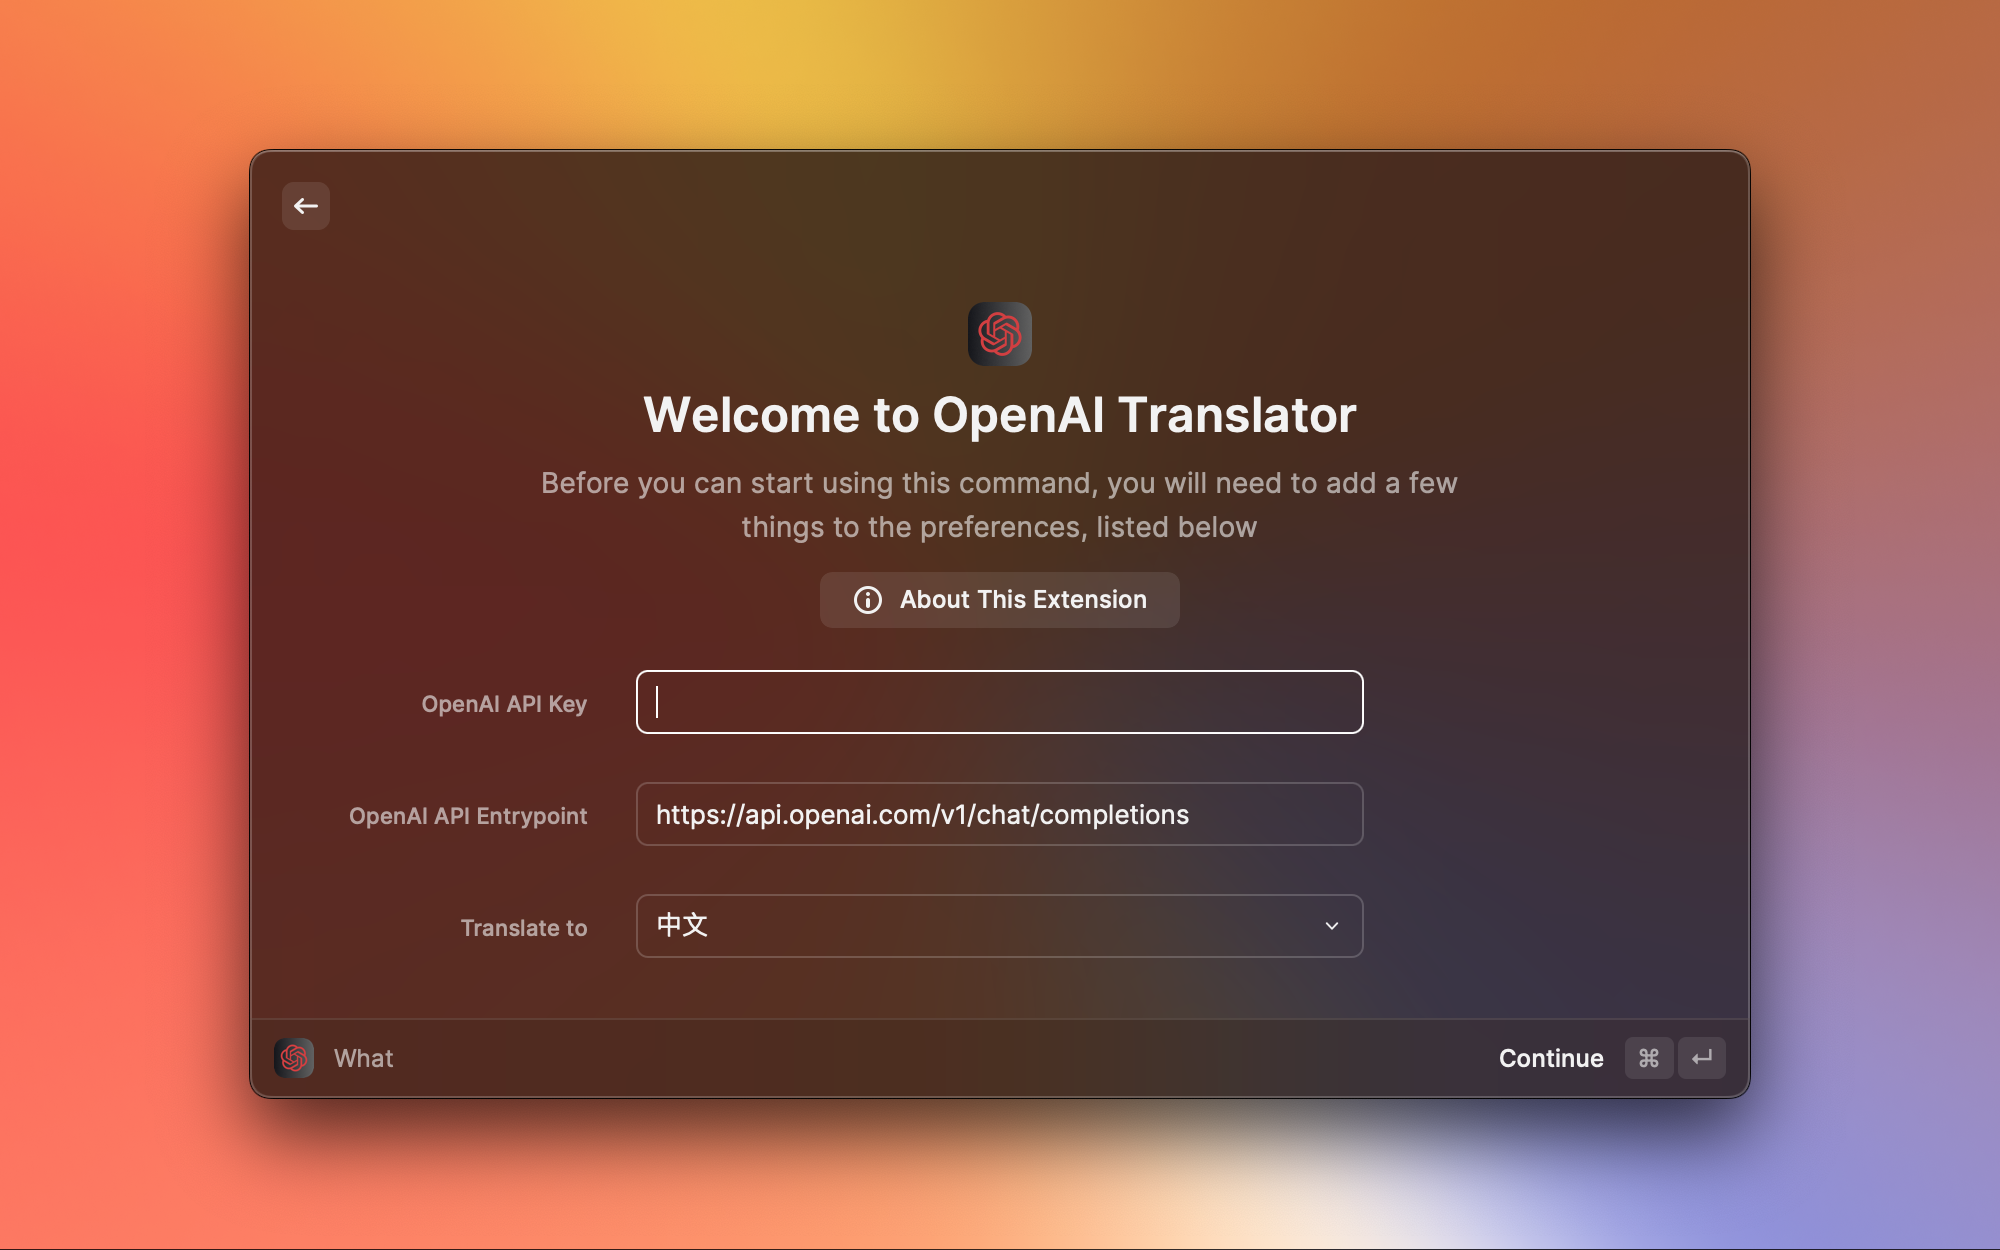
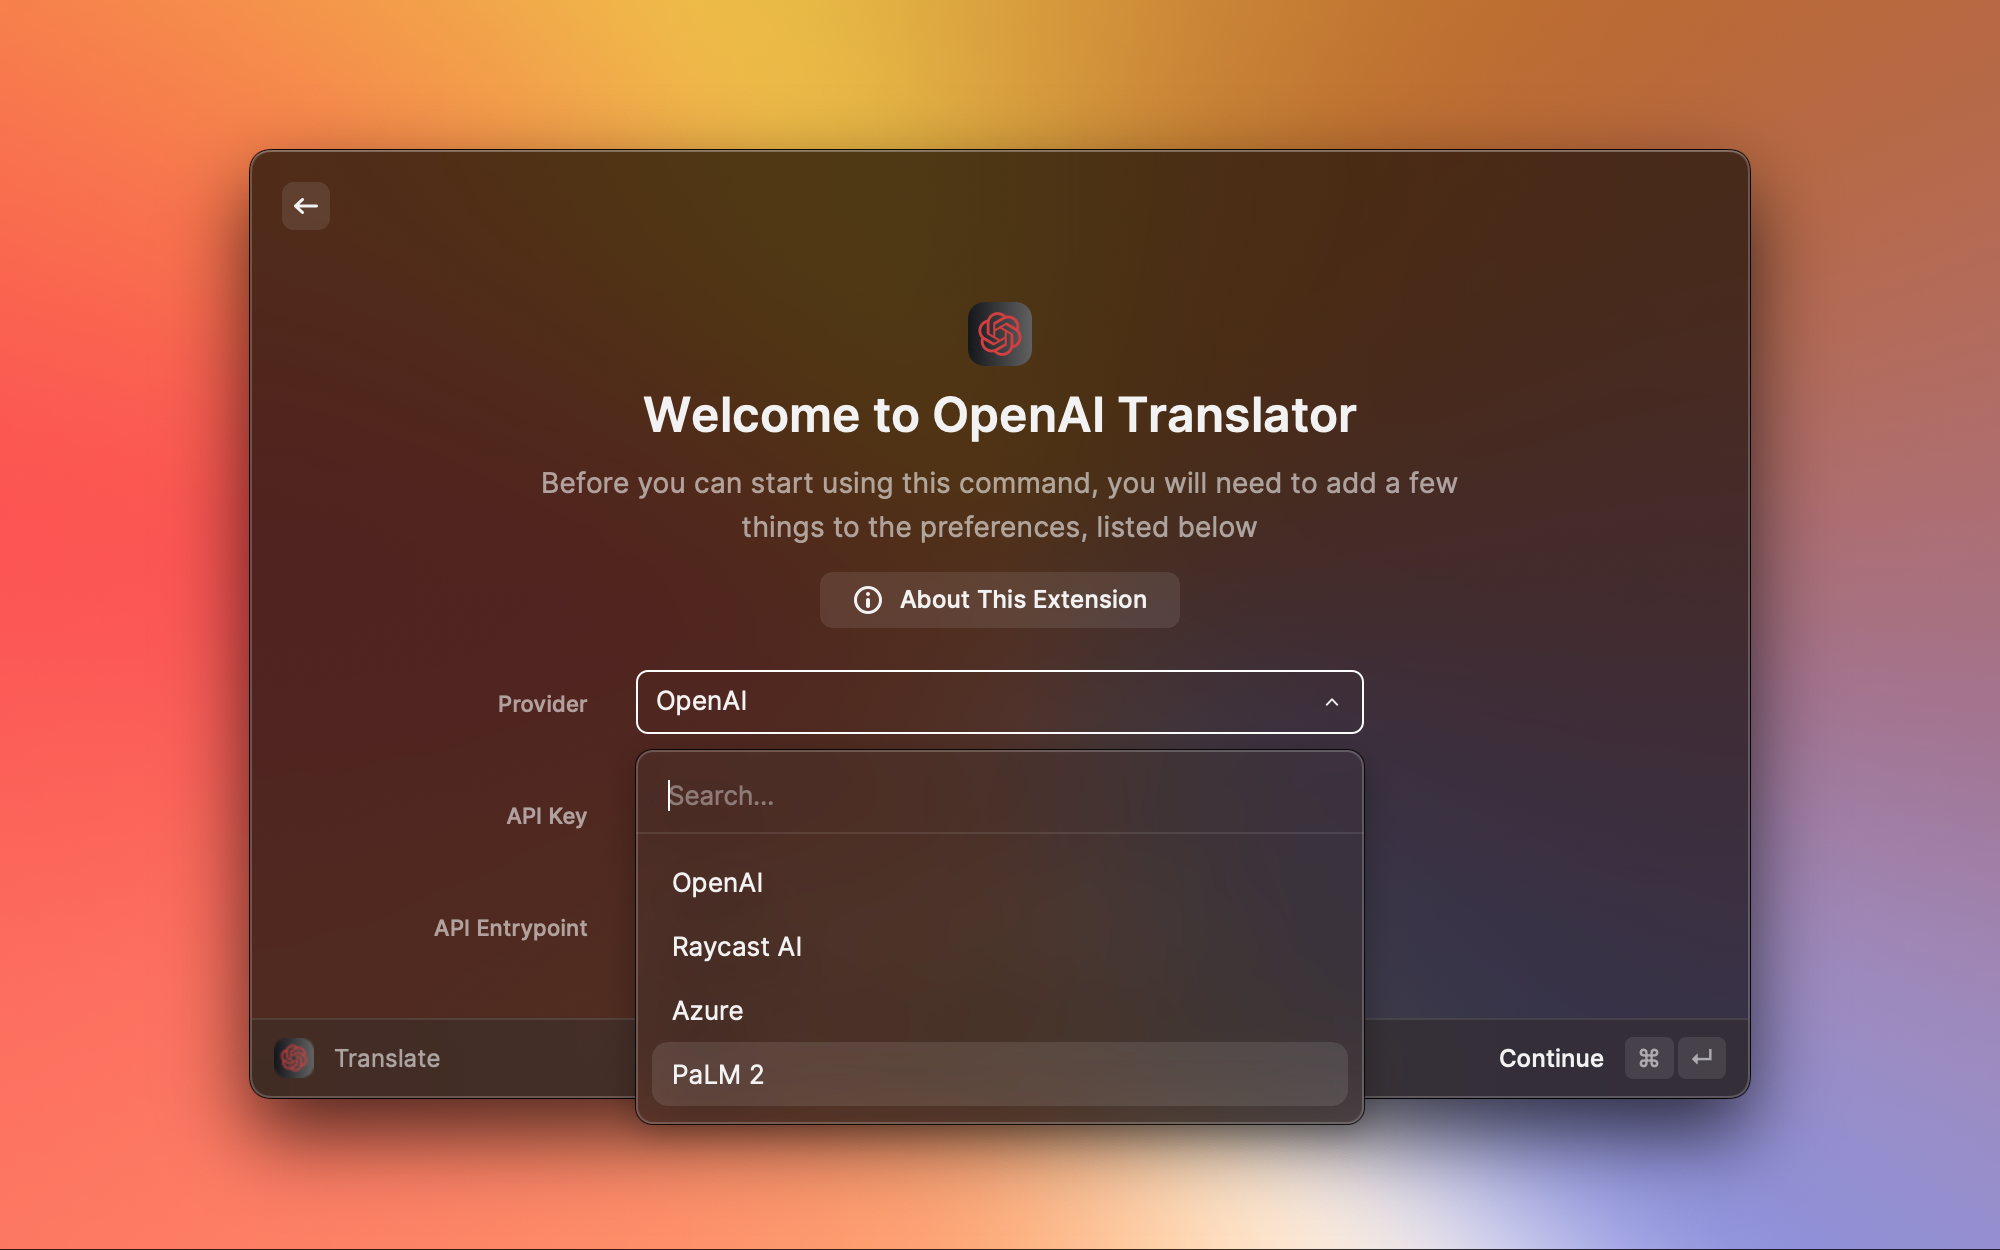
doc: prepare for release

diff --git a/README-en.md b/README-en.md
@@ -9,19 +9,14 @@ Quick Tips and Tricks:
 # Insipired By
 
 - [yetone/openai-translator](https://github.com/yetone/openai-translator)
+- [abielzulio/chatgpt-raycast](https://github.com/abielzulio/chatgpt-raycast)
 - [yihong0618/iWhat](https://github.com/yihong0618/iWhat)
-
-# Learn a lot from
-
-- [yetone/openai-translator](https://github.com/yetone/openai-translator) (MIT License)
-- [abielzulio/chatgpt-raycast](https://github.com/abielzulio/chatgpt-raycast) (MIT License)
 
 # Install
 
 ## Store
 
 [Raycast OpenAI Translator](https://www.raycast.com/douo/openai-translator)
-
 
 ## Manual
 
@@ -38,8 +33,6 @@ After the extension command show up, You can stop(`Ctrl-c`) the server safely.
 
 ![Intro](doc/configuration.png)
 
-Get your [OpenAI](https://platform.openai.com/account/api-keys) API Keys
-
 ## Main Feature
 
 - Selected text translation
@@ -55,18 +48,49 @@ Get your [OpenAI](https://platform.openai.com/account/api-keys) API Keys
 
 ![Commands](doc/commands.png)
 
-Thanks to [yetone/openai-translator](https://github.com/yetone/openai-translator)：
 
 - Translate
 - Polishing
 - Summarize
+- What/What is it?
 
 ![Translate](doc/translate.png)
-
-- What/What is it? (Thanks to [yihong0618/iWhat](https://github.com/yihong0618/iWhat) 的 Prompts)
-
 ![What](doc/what-en.png)
 
+## Multiple LLM Provider Support
+
+- [OpenAI ChatGPT](https://chat.openai.com/)
+- [Raycast AI](https://www.raycast.com/pro)
+- [Azure OpenAI Service](https://azure.microsoft.com/en-us/products/cognitive-services/openai-service)
+- [PaLM 2](https://ai.google/discover/palm2)
+
+### OpenAI ChatGPT
+
+- API Entrypoint: https://api.openai.com/v1/chat/completions
+- API Key: Get your [OpenAI](https://platform.openai.com/account/api-keys) API Key.
+- API Model: gpt-3.5-turbo/etc
+
+### Raycast AI
+
+- API Entrypoint: none
+- API Key: none
+- API Model: No configuration required.
+
+Requires [Raycast Pro](https://www.raycast.com/pro) to support.
+
+### Azure OpenAI Service
+
+- API Entrypoint:`https://${resourceName}.openai.azure.com/openai/deployments/${deployName}/completions?api-version=${apiVersion}`
+- API Key: [Azure](https://portal.azure.com/) -> Azure OpenAI -> Keys and Endpoint
+- API Model：No configuration required.
+
+### PaLM 2
+
+- API Entrypoint: none
+- API Key: [MakerSuite->API Keys](Https:/ /makersuite.google.Com/app/API key)
+- API Model：No configuration required, the current text-bison
+
+Function is limited and only supports US IP addresses.
 
 ## Others
 

diff --git a/README.md b/README.md
@@ -8,12 +8,8 @@ https://user-images.githubusercontent.com/743074/226975894-de840861-d1c9-4c9e-8f
 # Insipired By
 
 - [yetone/openai-translator](https://github.com/yetone/openai-translator)
+- [abielzulio/chatgpt-raycast](https://github.com/abielzulio/chatgpt-raycast)
 - [yihong0618/iWhat](https://github.com/yihong0618/iWhat)
-
-# 参考(Cpoy)
-
-- [yetone/openai-translator](https://github.com/yetone/openai-translator) (MIT License)
-- [abielzulio/chatgpt-raycast](https://github.com/abielzulio/chatgpt-raycast) (MIT License)
 
 # 安装
 
@@ -35,8 +31,6 @@ npm install && npm run dev
 
 ![Intro](doc/configuration.png)
 
-获取你的 [OpenAI](https://platform.openai.com/account/api-keys) API Key.
-
 ## 主要功能
 
 - 划词翻译
@@ -52,18 +46,48 @@ npm install && npm run dev
 
 ![Commands](doc/commands.png)
 
-感谢 [yetone/openai-translator](https://github.com/yetone/openai-translator)：
-
 - 翻译
 - 润色
 - 总结
+- What/What is it?(文本识别)
 
 ![Translate](doc/translate.png)
-
-
-- What/What is it?(文本识别) (感谢 [yihong0618/iWhat](https://github.com/yihong0618/iWhat) 的 Prompts)
-
 ![What](doc/what-zh.png)
+
+## 多 LLM 支持
+
+- [OpenAI ChatGPT](https://chat.openai.com/)
+- [Raycast AI](https://www.raycast.com/pro)
+- [Azure OpenAI Service](https://azure.microsoft.com/en-us/products/cognitive-services/openai-service)
+- [PaLM 2](https://ai.google/discover/palm2)
+
+### OpenAI ChatGPT
+
+- API Entrypoint：https://api.openai.com/v1/chat/completions
+- API Key: 获取你的 [OpenAI](https://platform.openai.com/account/api-keys) API Key.
+- API Model: gpt-3.5-turbo/etc
+
+### Raycast AI
+
+- API Entrypoint：none
+- API Key: none
+- API Model: 无需配置
+
+需要 [Raycast Pro](https://www.raycast.com/pro) 才能支持。
+
+### Azure OpenAI Service
+
+- API Entrypoint：`https://${resourceName}.openai.azure.com/openai/deployments/${deployName}/completions?api-version=${apiVersion}`
+- API Key: [Azure](https://portal.azure.com/) -> Azure OpenAI -> Keys and Endpoint
+- API Model: 无需配置
+
+### PaLM 2
+
+- API Entrypoint: none
+- API Key: [MakerSuite -> API Keys](https://makersuite.google.com/app/apikey)
+- API Model: 无需配置，当前 text-bison
+
+功能受限，且仅支持美国 IP。
 
 ## 其他
 

diff --git a/CHANGELOG.md b/CHANGELOG.md
@@ -1,5 +1,15 @@
 # OpenAI Translator Changelog
 
+## [Multiple LLM Provider support] - 2023-05-23
+
+- Raycast AI support by @Fatpandac
+- Azure OpenAI Service  support
+- PaLM 2 limited support
+- Using build-in NLLanguageRegcondizer for language detection
+- Fixed incomplete display of translation
+
+
+
 ## [Improve & Feature] - 2023-04-06
 
 - Add SOCKS5 proxy suppoort
